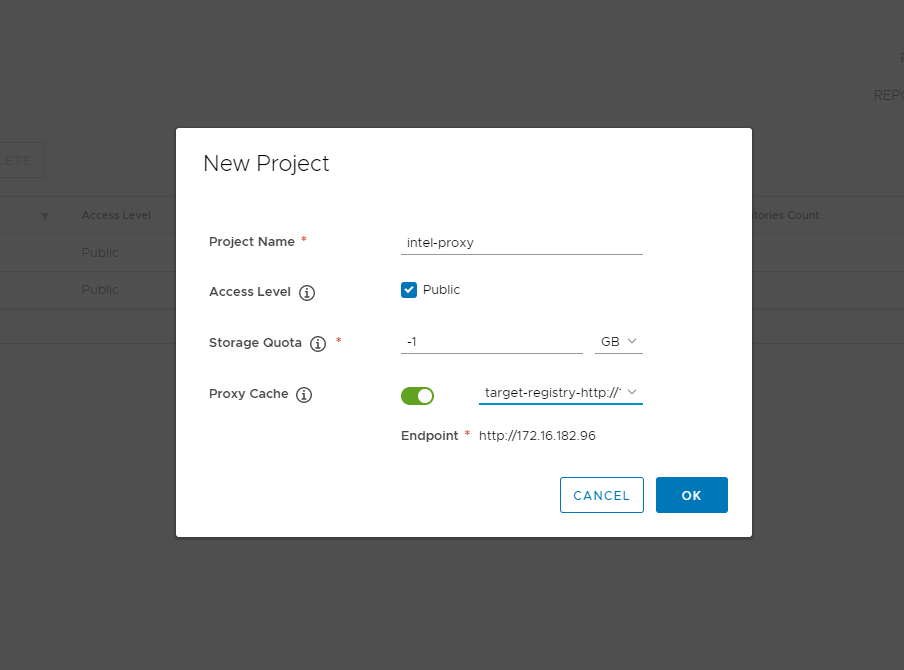
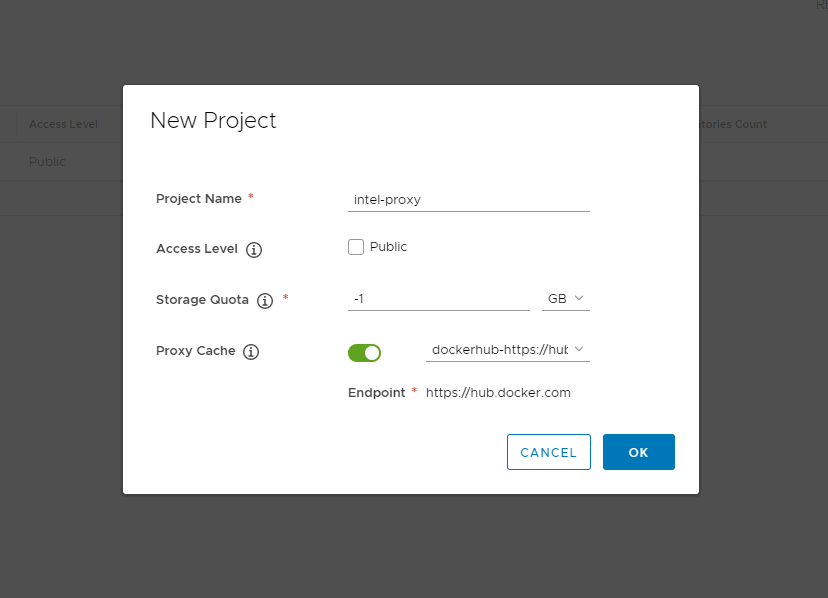
target registry is Docker hub

diff --git a/doc/getting-started/network-edge/controller-edge-node-setup.md b/doc/getting-started/network-edge/controller-edge-node-setup.md
@@ -229,12 +229,11 @@ The detailed setup steps are shown as below:
 
    ![](controller-edge-node-setup-images/harbor-proxy-step2.png)
 
-   - **Provider**: the type of target registry. 
-
+   - **Provider**: the type of target registry, for example `Docker Hub`. 
    - **Name**: the name of new registry endpoint and it can be whatever you want.
-   - **Endpoint URL**: the endpoint of target Harbor Registry and it's deployed with a default port `80` and the protocol `http`.
-   - **Access ID**:  default username of target Harbor Registry is `admin`.
-   - **Access Secret**: default password of target Harbor Registry is `Harbor12345`
+   - **Endpoint URL**: the endpoint of target Registry. The endpoint url of Docker Hub is `https://hub.docker.com`.
+   - **Access ID**:  the username of target Registry. Here is a username of Docker Hub.
+   - **Access Secret**: the password of target Registry. Here is a password of Docker Hub.
 
 2. Create a new project with proxy cache enabled.
 
@@ -254,7 +253,7 @@ The detailed setup steps are shown as below:
    for example:
 
    ```sh
-   > docker pull 172.16.182.211:30003/intel-proxy/library/nginx:v1 
+   > docker pull 172.16.182.211:30003/intel-proxy/cuizy/coredns:1.6.7
    ```
 
    > The endpoint of deployed registry is `172.16.182.211:30003`.
@@ -265,9 +264,8 @@ The detailed setup steps are shown as below:
    spec:
      containers:
      ... ...
-       image: 172.16.182.211:30003/intel-proxy/library/nginx:v1 
+       image: 172.16.182.211:30003/intel-proxy/cuizy/coredns:1.6.7 
    ```
-
 ## Kubernetes cluster networking plugins (Network Edge)
 
 Kubernetes uses 3rd party networking plugins to provide [cluster networking](https://kubernetes.io/docs/concepts/cluster-administration/networking/).
